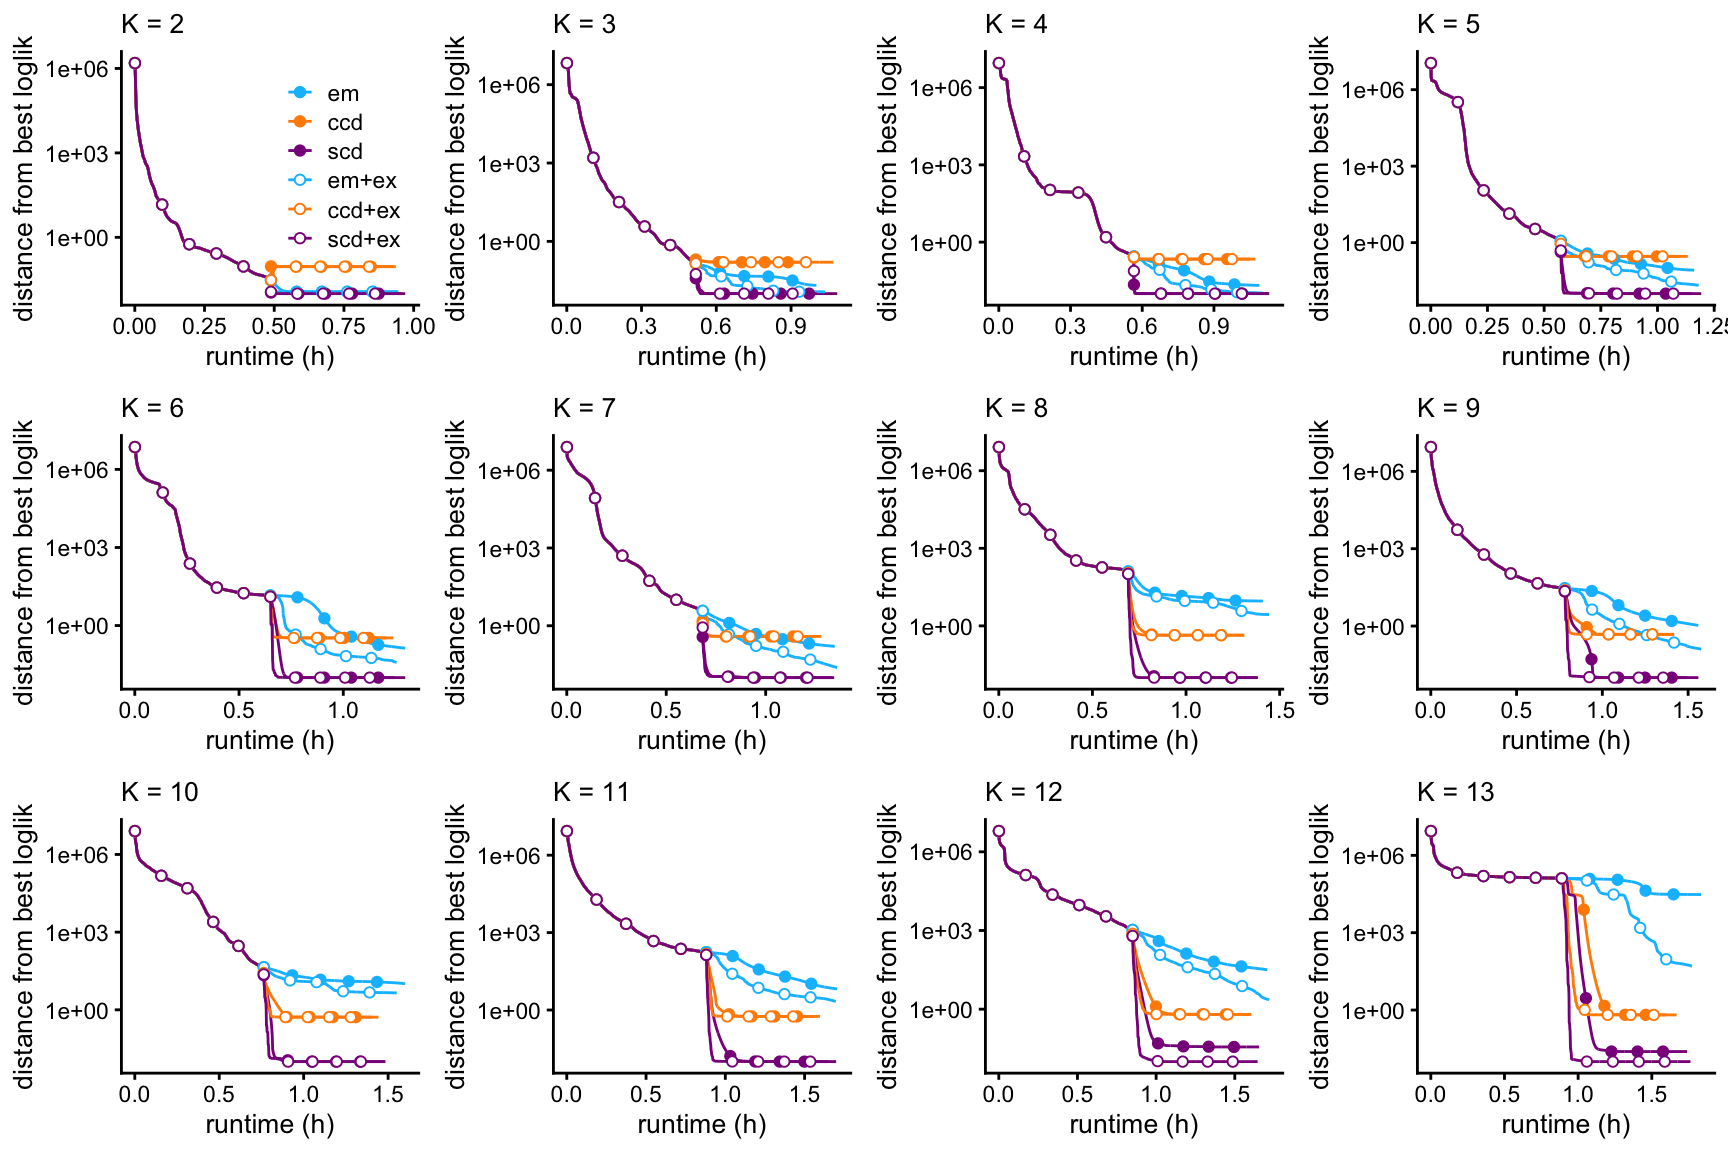
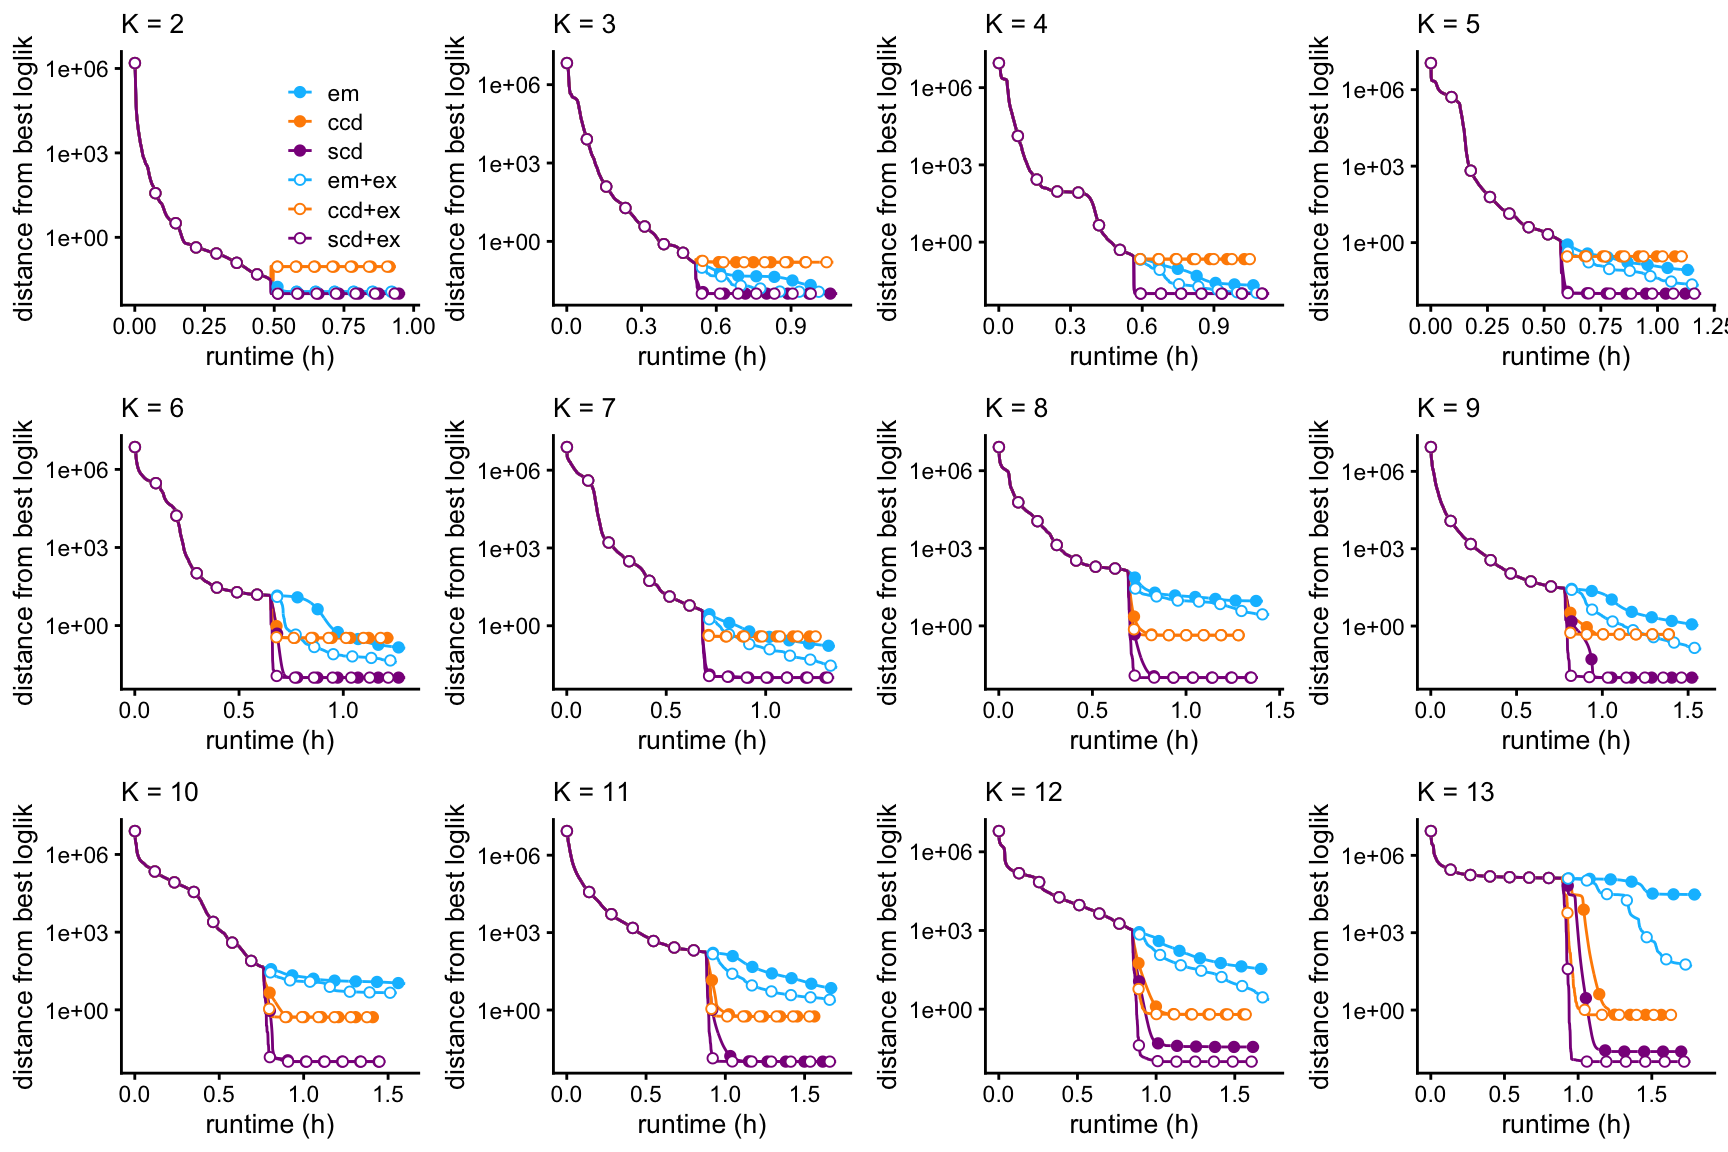
Another adjustment to the progress plots in assess_fits_droplet.

diff --git a/docs/assess_fits_droplet.html b/docs/assess_fits_droplet.html
@@ -414,16 +414,16 @@ This reproducible <a href="http://rmarkdown.rstudio.com">R Markdown</a> analysis
 <div class="panel panel-default">
 <div class="panel-heading">
 <p class="panel-title">
-<a data-toggle="collapse" data-parent="#workflowr-checks" href="#strongRepositoryversionstrongahrefhttpsgithubcomstephenslabsinglecelltopicstree89f12a8fc2819862e28dfb433d6f873633e5ef56targetblank89f12a8a"> <span class="glyphicon glyphicon-ok text-success" aria-hidden="true"></span> <strong>Repository version:</strong> <a href="https://github.com/stephenslab/single-cell-topics/tree/89f12a8fc2819862e28dfb433d6f873633e5ef56" target="_blank">89f12a8</a> </a>
+<a data-toggle="collapse" data-parent="#workflowr-checks" href="#strongRepositoryversionstrongahrefhttpsgithubcomstephenslabsinglecelltopicstreec8ab21543f5592a84041e2296dd261c42ec5d53ctargetblankc8ab215a"> <span class="glyphicon glyphicon-ok text-success" aria-hidden="true"></span> <strong>Repository version:</strong> <a href="https://github.com/stephenslab/single-cell-topics/tree/c8ab21543f5592a84041e2296dd261c42ec5d53c" target="_blank">c8ab215</a> </a>
 </p>
 </div>
[2 lines of base64/hex data omitted]
 <div class="panel-body">
 <p>
 Great! You are using Git for version control. Tracking code development and connecting the code version to the results is critical for reproducibility.
 </p>
 <p>
-The results in this page were generated with repository version <a href="https://github.com/stephenslab/single-cell-topics/tree/89f12a8fc2819862e28dfb433d6f873633e5ef56" target="_blank">89f12a8</a>. See the <em>Past versions</em> tab to see a history of the changes made to the R Markdown and HTML files.
+The results in this page were generated with repository version <a href="https://github.com/stephenslab/single-cell-topics/tree/c8ab21543f5592a84041e2296dd261c42ec5d53c" target="_blank">c8ab215</a>. See the <em>Past versions</em> tab to see a history of the changes made to the R Markdown and HTML files.
 </p>
 <p>
 Note that you need to be careful to ensure that all relevant files for the analysis have been committed to Git prior to generating the results (you can use <code>wflow_publish</code> or <code>wflow_git_commit</code>). workflowr only checks the R Markdown file, but you know if there are other scripts or data files that it depends on. Below is the status of the Git repository when the results were generated:
@@ -491,6 +491,23 @@ Message
 </tr>
 </thead>
 <tbody>
+<tr>
+<td>
+html
+</td>
+<td>
+<a href="https://rawcdn.githack.com/stephenslab/single-cell-topics/c8ab21543f5592a84041e2296dd261c42ec5d53c/docs/assess_fits_droplet.html" target="_blank">c8ab215</a>
+</td>
+<td>
+Peter Carbonetto
+</td>
+<td>
+2020-11-14
+</td>
+<td>
+Adjusted progress plots in assess_fits_droplet.
+</td>
+</tr>
 <tr>
 <td>
 html
@@ -937,6 +954,17 @@ Date
 <tbody>
 <tr>
 <td>
+<a href="https://github.com/stephenslab/single-cell-topics/blob/c8ab21543f5592a84041e2296dd261c42ec5d53c/docs/figure/assess_fits_droplet.Rmd/plot-loglik-1.png" target="_blank">c8ab215</a>
+</td>
+<td>
+Peter Carbonetto
+</td>
+<td>
+2020-11-14
+</td>
+</tr>
+<tr>
+<td>
 <a href="https://github.com/stephenslab/single-cell-topics/blob/6703ed1367b6bae40ce73154467f164fe15dd49f/docs/figure/assess_fits_droplet.Rmd/plot-loglik-1.png" target="_blank">6703ed1</a>
 </td>
 <td>
@@ -1019,6 +1047,17 @@ Date
 </tr>
 </thead>
 <tbody>
+<tr>
+<td>
+<a href="https://github.com/stephenslab/single-cell-topics/blob/c8ab21543f5592a84041e2296dd261c42ec5d53c/docs/figure/assess_fits_droplet.Rmd/plot-res-1.png" target="_blank">c8ab215</a>
+</td>
+<td>
+Peter Carbonetto
+</td>
+<td>
+2020-11-14
+</td>
+</tr>
 <tr>
 <td>
 <a href="https://github.com/stephenslab/single-cell-topics/blob/6703ed1367b6bae40ce73154467f164fe15dd49f/docs/figure/assess_fits_droplet.Rmd/plot-res-1.png" target="_blank">6703ed1</a>
